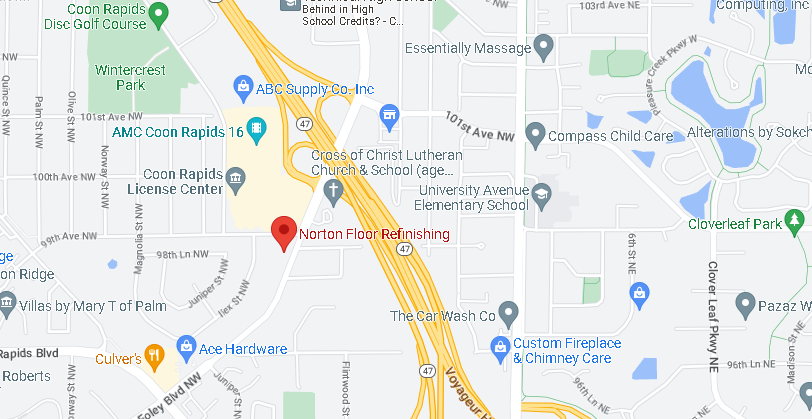
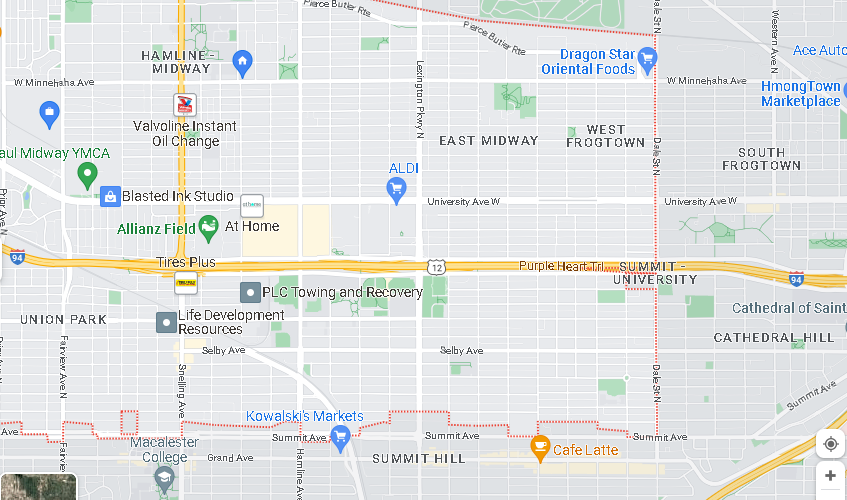
updating all pages

diff --git a/contact.html b/contact.html
@@ -47,7 +47,7 @@
         <div class="collapse navbar-collapse" id="navbarSupportedContent">
             <ul class="navbar-nav mr-auto">
                 <li class="nav-item active">
-                    <a class="nav-link" href="https://www.nortonfloors.com/">Home<span
+                    <a class="nav-link" href="https://atn362.github.io/desWebsite/">Home<span
                             class="sr-only">(current)</span></a>
                 </li>
                 <li class="nav-item">
@@ -78,14 +78,13 @@
     <div style="display: flex; align-items: center; justify-content: center; padding-bottom: 3rem;">
         <div class="card" style="width: 50%">
             <div class=" card-body">
-                <h3 class="card-title" style="text-align: center;">Norton Floors</h3>
-                <h5 style="text-align: center;">9848 Foley Boulevard NW</h4>
-                    <h5 style="text-align: center;">MPLS, MN 55433</h4>
-                        <h6 style="text-align: center; font-weight: 600; color: red;">Call Now For A Free Estimate</h6>
-                        <div style="display: flex; align-items: center; justify-content: center;">
-                            <a href="tel:7635378633" class="card-link">(763)537-8633</a>
-                            <a href="mailto:nortonfloors@hotmail.com" class="card-link">Send Email</a>
-                        </div>
+                <h3 class="card-title" style="text-align: center;">Desirae Coleman Notary</h3>
+                <h5 style="text-align: center;">Saint Paul, MN 55104</h4>
+                    <h6 style="text-align: center; font-weight: 600; color: red;">Call Now For A Free Consoltation</h6>
+                    <div style="display: flex; align-items: center; justify-content: center;">
+                        <a href="tel:7635378633" class="card-link">(612)398-5890</a>
+                        <a href="mailto:desirae3000@gmail.com" class="card-link">Send Email</a>
+                    </div>
             </div>
         </div>
     </div>
@@ -94,7 +93,7 @@
 
 
     <a target="_blank"
-        href="https://www.google.com/maps/place/Norton+Floor+Refinishing/@45.1492896,-93.2766869,15z/data=!4m6!3m5!1s0x52b32552edc0950f:0xe0173b4710fae76e!8m2!3d45.1492896!4d-93.2766869!16s%2Fg%2F11p777tvpq">
+        href="https://www.google.com/maps/place/St+Paul,+MN+55104/@44.9522523,-93.2081873,13z/data=!3m1!4b1!4m6!3m5!1s0x87f62a0814790d59:0x17368f96162d25a1!8m2!3d44.9516643!4d-93.1629063!16s%2Fm%2F01_zgf4?entry=ttu">
         <div title="Click For Directions" style="display: flex; justify-content: center; align-items: center;">
             <img id="mapImage" src="./images/mapImage.png" class="rounded float-left"
                 style="height: 380px; width: 782px;" alt="map image">

diff --git a/gallery.html b/gallery.html
@@ -50,7 +50,8 @@
     <div class="collapse navbar-collapse" id="navbarSupportedContent">
         <ul class="navbar-nav mr-auto">
             <li class="nav-item active">
-                <a class="nav-link" href="https://www.nortonfloors.com/">Home <span class="sr-only">(current)</span></a>
+                <a class="nav-link" href="https://atn362.github.io/desWebsite/">Home <span
+                        class="sr-only">(current)</span></a>
             </li>
             <li class="nav-item">
                 <a class="nav-link" href="./services.html">Services</a>

diff --git a/services.html b/services.html
@@ -74,7 +74,7 @@
         <div class="collapse navbar-collapse" id="navbarSupportedContent">
             <ul class="navbar-nav mr-auto">
                 <li class="nav-item active">
-                    <a class="nav-link" href="https://www.nortonfloors.com/">Home<span
+                    <a class="nav-link" href="https://atn362.github.io/desWebsite/">Home<span
                             class="sr-only">(current)</span></a>
                 </li>
                 <li class="nav-item">
